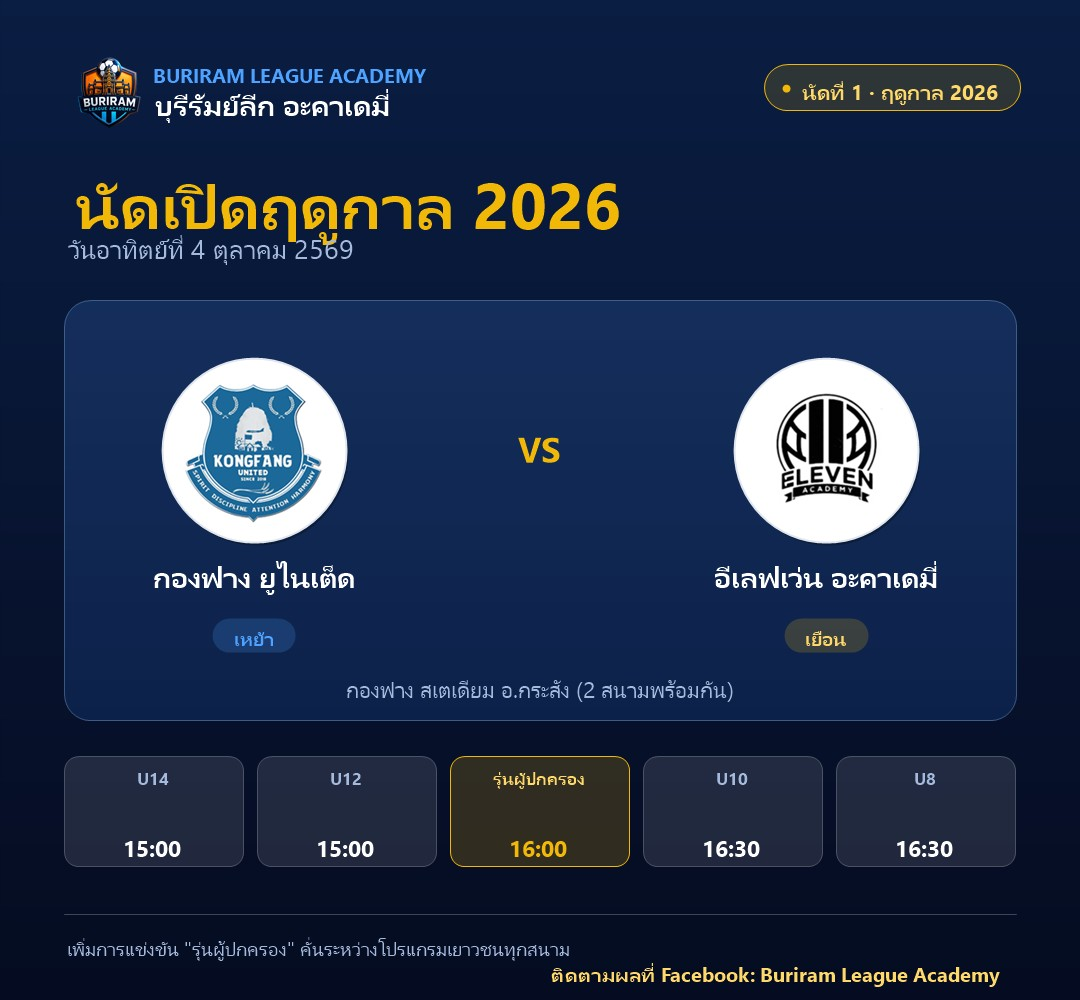
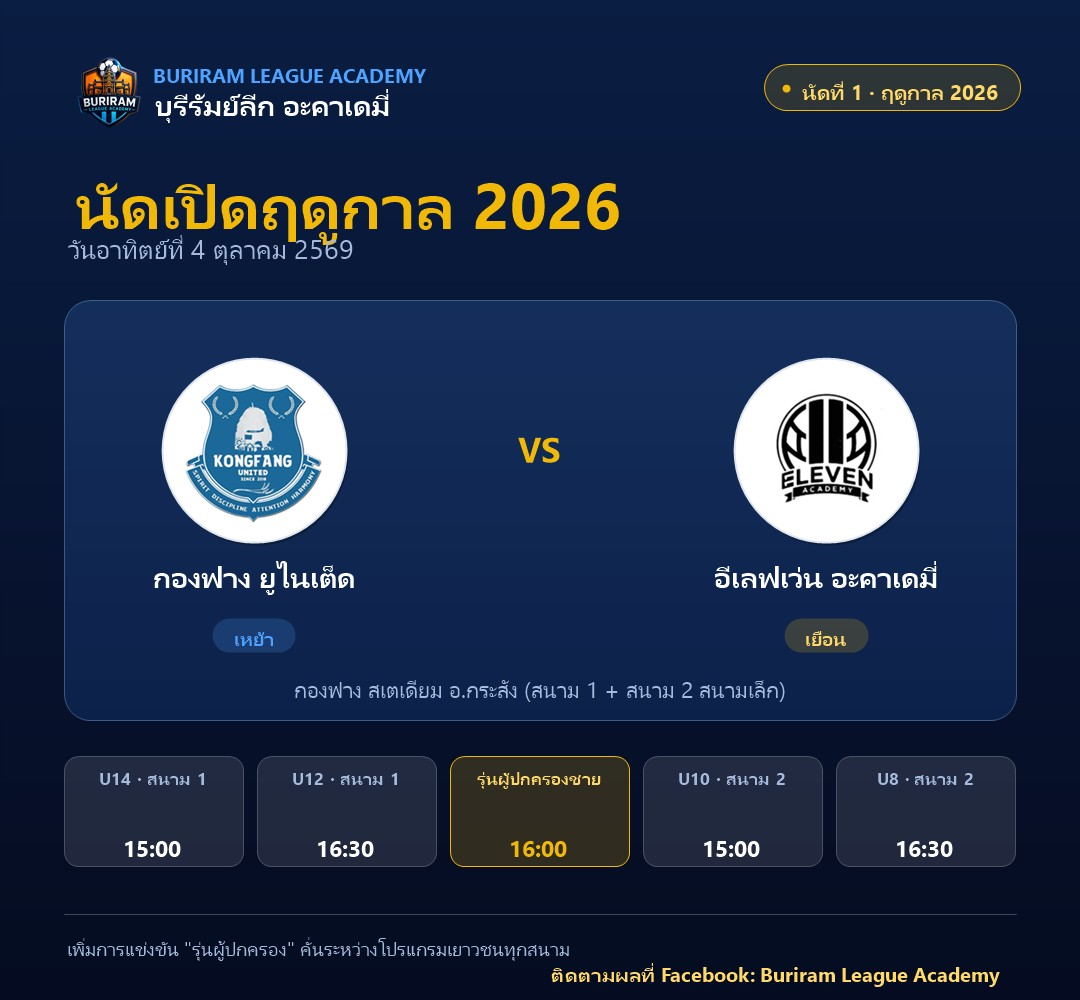
Fix match 1 schedule: correct field assignments and times
Corrected from the user (actual field schedule):
- 15:00: U14 on Field 1, U10 on Field 2 (small field) — was U14+U12
- 16:00: Men's parent division — unchanged
- 16:30: U12 on Field 1, U8 on Field 2 (small field) — was U10+U8

Updated round-poster-data.json, regenerated the summary + match-1
posters, and added per-match label overrides to round-poster.ps1
(labels field) so a specific match can show field assignments
without affecting the other 5 matches' generic U14/U12/U10/U8 labels.
Also fixed data.js so schedule.html shows the corrected times/venue.

diff --git a/assets/js/data.js b/assets/js/data.js
@@ -87,7 +87,7 @@ window.BLA = {
   /* 11 รอบ · รอบละ 6 คู่ · พร้อมสนามแข่ง (อ้างอิงไฟล์กลาง BLA_2026_schedule) */
   schedule: [
     { round:1, date:"อาทิตย์ 4 ต.ค. 2569", note:"นัดเปิดฤดูกาล — ทุกสนามเพิ่มการแข่งขัน \"รุ่นผู้ปกครอง\" คั่นระหว่างโปรแกรมเยาวชน", matches:[
-      { home:"กองฟาง ยูไนเต็ด",   away:"อีเลฟเว่น อะคาเดมี่", venue:"กองฟาง สเตเดียม อ.กระสัง (2 สนามพร้อมกัน)", times:{U14:"15:00",U12:"15:00",parent:"16:00",U10:"16:30",U8:"16:30"} },
+      { home:"กองฟาง ยูไนเต็ด",   away:"อีเลฟเว่น อะคาเดมี่", venue:"กองฟาง สเตเดียม อ.กระสัง (สนาม 1 + สนาม 2 สนามเล็ก)", times:{U14:"15:00 (สนาม 1)",U12:"16:30 (สนาม 1)",parent:"16:00 (รุ่นผู้ปกครองชาย)",U10:"15:00 (สนาม 2)",U8:"16:30 (สนาม 2)"} },
       { home:"เบส",              away:"บัวหลวง อะคาเดมี่",   venue:"สนามพงศ์พันธุ์อารีน่า อ.คูเมือง", times:{U14:"10:00",U12:"11:00",parent:"ระหว่างกลาง",U10:"13:00",U8:"14:00"} },
       { home:"แสงเพชร",          away:"ราชสีมา อะคาเดมี่",   venue:"แสงเพชร สเตเดี้ยม อ.ห้วยแถลง · นครราชสีมา", times:{U14:"10:00",U12:"11:00",parent:"ระหว่างกลาง",U10:"13:00",U8:"14:00"} },
       { home:"ยูจิน x เอแมน",     away:"เกรียรัมย์",         venue:"ยูจินอารีน่า อ.นางรอง", times:{U14:"10:00",U12:"11:00",parent:"ระหว่างกลาง",U10:"13:00",U8:"14:00"} },
